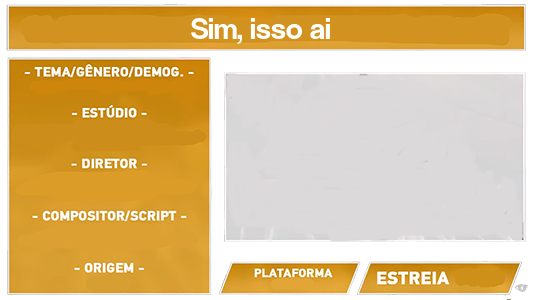
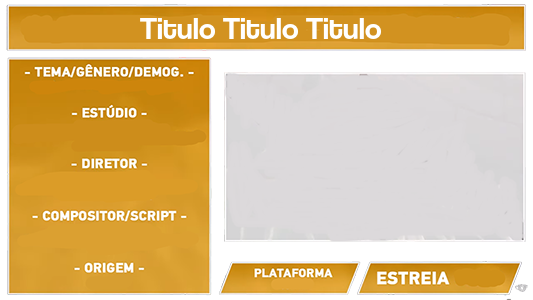
Desenvolvendo a preview

Changed region(s): [[0.2402, 0.06, 0.7205, 0.15]]

diff --git a/refactoring.py b/refactoring.py
@@ -4,6 +4,7 @@ from tkinter.tix import *
 from PIL import Image, ImageDraw, ImageFont
 import re, os
 
+#--------------------------------------------------------------------------
 class FileVerification():
     def __init__(self):
         self.extensionRegex = re.compile(r'[^.]+$')
@@ -62,7 +63,7 @@ class VisualWarning(Label, Balloon):
         self.__balloonWarning.bind_widget(self.__warning, balloonmsg=newMessage)
 
 class Title(Label):
-    def __init__(self, master, name, row, column, columnspan = 1, sticky = 'W'):
+    def __init__(self, master, name, row, column, padx=0, pady=0, bgColor='', fgColor='', columnspan = 1, sticky = 'W'):
         super().__init__()
         self.__master = master
         self.name = name
@@ -70,31 +71,42 @@ class Title(Label):
         self._column = column
         self._columnspan = columnspan
         self.sticky = sticky
+        self.bgColor = bgColor if bgColor else self.__master.cget("bg")
+        self.fgColor = fgColor if fgColor else "black"
 
-        self.label = Label(self.__master, text=self.name)
+        self.label = Label(self.__master, text=self.name, padx=padx, pady=pady, bg=self.bgColor, fg=self.fgColor)
         self.label.grid(row=self._row, column=self._column, columnspan=self._columnspan, sticky=EW)
         self.label.bind("<Configure>", self.setSize)
         #self.label.columnconfigure(self._column, weight=2)
     
     def setSize(self, event):
-        if event.width < 70:
-            font_size = int(event.width/7)
+        if event.width < 40:
+            font_size = int(event.width/4)
             #print("caso 1: ", font_size, event.width, self.label.cget("text"))
+        elif event.width >= 40 and event.width < 50:
+            font_size = int(event.width/5)
+            #print("caso 2: ", font_size, event.width, self.label.cget("text"))
+        elif event.width >= 50 and event.width < 60:
+            font_size = int(event.width/6)
+            #print("caso 3: ", font_size, event.width, self.label.cget("text"))
+        elif event.width >= 60 and event.width < 70:
+            font_size = int(event.width/7)
+            #print("caso 4: ", font_size, event.width, self.label.cget("text"))
         elif event.width >= 70 and event.width < 80:
             font_size = int(event.width/8)
-            #print("caso 2: ", font_size, event.width, self.label.cget("text"))
+            #print("caso 5: ", font_size, event.width, self.label.cget("text"))
         elif event.width >= 80 and event.width < 90:
             font_size = int(event.width/9)
-            #print("caso 3: ", font_size, event.width, self.label.cget("text"))
+            #print("caso 6: ", font_size, event.width, self.label.cget("text"))
         elif event.width >= 90 and event.width < 110:
             font_size = int(event.width/10)
-            #print("caso 4: ", font_size, event.width, self.label.cget("text"))
+            #print("caso 7: ", font_size, event.width, self.label.cget("text"))
         elif event.width >= 110 and event.width < 150:
             font_size = int(event.width/11)
-            #print("caso 5: ", font_size, event.width, self.label.cget("text"))
+            #print("caso 8: ", font_size, event.width, self.label.cget("text"))
         elif event.width >= 150:
             font_size = 14
-            #print("caso 6: ", font_size, event.width, self.label.cget("text"))
+            #print("caso 9: ", font_size, event.width, self.label.cget("text"))
         self.label.configure(font=("Arial", font_size))
 
 
@@ -122,6 +134,59 @@ class Input(Entry):
     def clearText(self):
         self.input.delete(0, END)
 
+class AreaFrame(Frame):
+    def __init__(self, master, frameTitle, campo, numFrames, nameFrames, row, column, bgColor="gray", padx=10, pady=10, bd=3):
+        super().__init__()
+        self.__master = master
+        self._row = row
+        self._column = column
+        self._nameFrames = nameFrames
+        self._frameTitle = frameTitle
+        self._campo = campo
+        
+        self.areaFrame = Frame(self.__master, bg=bgColor, padx=padx, pady=pady, bd=bd)
+        self.subFrames = []
+
+        for i in range(numFrames):
+            columnLabel = i + i
+            columnInput = (i + 1) + i
+            newFrame = {
+                "fieldName": self._nameFrames[i],
+                "labelTitle": Title(self.areaFrame, self._nameFrames[i], 1, columnLabel, pady=2, columnspan=2, sticky=EW, fgColor="white"),
+                "labelFont": Title(self.areaFrame, "font size:", 2, columnLabel, padx=2, bgColor="gray", fgColor="white"),
+                "labelCoordx": Title(self.areaFrame, "coordx:", 3, columnLabel, padx=2, bgColor="gray", fgColor="white"),
+                "labelCoordy": Title(self.areaFrame, "coordy:", 4, columnLabel, padx=2, bgColor="gray", fgColor="white"),
+                "inputCampo": self._campo,
+                "inputFont": Input(self.areaFrame, "10", 2, columnInput),
+                "inputCoordx": Input(self.areaFrame, "10", 3, columnInput),
+                "inputCoordy": Input(self.areaFrame, "10", 4, columnInput),
+            }
+            self.subFrames.append(newFrame)
+        
+        self.title = Title(self.areaFrame, self._frameTitle, 0, 0, pady=2, fgColor="white", columnspan=self.areaFrame.grid_size()[1] + 1, sticky=EW)
+        self.areaFrame.grid(row=self._row, column=self._column)
+
+    def getSubFrames(self):
+        return self.subFrames
+
+    def getFontSize(self, field):
+        #print(field)
+        for item in self.subFrames:
+            #print(item['fieldName'])
+            if item['fieldName'] == field:
+                print('Aqui', item['inputFont'].getValue())
+                return item["inputFont"].getValue()
+
+    def getValueX(self, field):
+        for item in self.subFrames:
+            if item["fieldName"] == field:
+                return int(item["inputCoordx"].getValue())
+    
+    def getValueY(self, field):
+        for item in self.subFrames:
+            if item["fieldName"] == field:
+                return int(item["inputCoordy"].getValue())
+
 class SearchButton(Button):
     def __init__(self, master, text, padx, pady, inputIndex, row, column,bgColor='lightgray', bgActive="gray"):
         super().__init__()
@@ -141,6 +206,8 @@ class SearchButton(Button):
 
         return filename
 
+#--------------------------------------------------------------------------
+
 class ActionButton(Button):
     def __init__(self, master, text, bgColor, fontColor, action, row, column, sticky=N, span=1, listInputs=[]):
         self.__master = master
@@ -157,6 +224,8 @@ class ActionButton(Button):
             self.actionButton.configure(command=lambda: self.verifyInputs())
         elif self._action == 'limpar':
             self.actionButton.configure(command=lambda: self.clearInputs())
+        elif self._action == 'preview':
+            self.actionButton.configure(command=lambda: self.setPreview())
 
     def verifyInputs(self):
         if self.listInputs:
@@ -224,6 +293,43 @@ class ActionButton(Button):
     def clearInputs(self):
         for item in self.listInputs:
             item['input'].clearText()
+    
+    def setPreview(self):
+        # Abrindo a imagem
+        for item in self.listInputs:
+            if item['fieldName'] == '1 linha':
+                preview_image = Image.open(os.path.join(os.getcwd(), r'src/images/preview.png'))
+                
+                # Pegando o texto pra adicionar
+                text_to_add = item['inputCampo'].getValue()
+
+                # Coordenadas adaptadas pra preview
+                preview_font_height = round((int(item['inputFont'].getValue()) / 1080) * 300)
+                preview_coordx = int(item['inputCoordx'].getValue()) / 1920 * 523
+                preview_coordy = int(item['inputCoordy'].getValue()) / 1080 * 300
+
+                # Definindo a fonte
+                text_font = ImageFont.truetype(os.path.join(os.getcwd(), r'src/fonts/coolvetica rg.otf'), preview_font_height)
+
+                # Editando a imagem
+                preview_image_edit = ImageDraw.Draw(preview_image)
+                preview_image_edit.text((preview_coordx, preview_coordy), text_to_add, anchor="mm", font=text_font)
+
+                # Salvando a imagem
+                preview_image.save(os.path.join(os.getcwd(), r'src/images/new_preview.png'))
+
+                # Limpe a entry box
+                item['inputCampo'].delete(0, END)
+                item['inputCampo'].insert(0, "Saving File...")
+
+                # Espere alguns segundos e mostre a imagem
+                image_preview.after(2000, self.show_pic(os.path.join(os.getcwd(), r'src/images/new_preview.png')))
+
+    def show_pic(self, pathNewPic):
+        global new_preview
+        new_preview = PhotoImage(file=pathNewPic)
+        image_preview.config(image=new_preview)
+        title_input.delete(0, END)
 
 #--------------------------------------------------------------------------
 # Início
@@ -310,8 +416,8 @@ title_label = Label(preview_texts, text="1. Título:", padx=5)
 title_label.grid(row=0, column=0)
 
 # Inputs
-title_input = Entry(preview_texts, width="40")
-title_input.grid(row=0, column=1, sticky=EW, pady=10)
+title_input = Input(preview_texts, "40", 0, 1)
+#title_input.grid(row=0, column=1, sticky=EW, pady=10)
 
 preview_texts.grid(row=2, column=0, sticky=EW)
 
@@ -321,31 +427,12 @@ adjust_canvas = Canvas(root, width=dj[0])
 adjust_frame = Frame(adjust_canvas)
 
 # Criando Labels
-title_label = Label(adjust_frame, text="Título")
-title_label.grid(row=0, column=0)
-
-# Frame dos inputs
-titles_frame = Frame(adjust_frame, bg="gray", padx=10, pady=10, bd=3)
+#title_label = Title(adjust_frame, "Título:", 0, 0)
+#title_label.grid(row=0, column=0)
 
 
-# Criando label das coordenadas
-font_height_label = Label(titles_frame, text="font size")
-font_height_label.grid(row=0, column=0)
-coordx_label = Label(titles_frame, text="coordx")
-coordx_label.grid(row=1, column=0)
-coordy_label = Label(titles_frame, text="coordy")
-coordy_label.grid(row=2, column=0)
-
-# Criando inputs dos titulos
-font_height_input = Entry(titles_frame)
-font_height_input.grid(row=0, column=1)
-coordx_input = Entry(titles_frame)
-coordx_input.grid(row=1, column=1)
-coordy_input = Entry(titles_frame)
-coordy_input.grid(row=2, column=1)
-
-# Fechando Frame dos Inputs
-titles_frame.grid(row=1, column=0)
+# Frames onde serão ajustadas as coordenadas e tamanho de fonte
+titles_frame = AreaFrame(adjust_frame, "Título:", title_input, 3, ("1 linha", "2 linhas", "3 linhas"), 0, 0) 
 
 # Barra de Scroll
 scrollbar = Scrollbar(root, orient='vertical')
@@ -368,43 +455,10 @@ adjust_canvas.grid(row=3, column=0, sticky=EW)
 
 #---------------------------------------------------------------------------
 # Acionar Preview
-def add_it():
-    # Abrindo a imagem
-    preview_image = Image.open(os.path.join(os.getcwd(), r'src/images/preview.png'))
-    
-    # Pegando o texto pra adicionar
-    text_to_add = title_input.get()
 
-    # Coordenadas adaptadas pra preview
-    preview_font_height = round((int(font_height_input.get()) / 1080) * 300)
-    preview_coordx = (int(coordx_input.get()) / 1920) * 523
-    preview_coordy = (int(coordy_input.get()) / 1080) * 300
-
-    # Definindo a fonte
-    text_font = ImageFont.truetype(os.path.join(os.getcwd(), r'src/fonts/coolvetica rg.otf'), preview_font_height)
-
-    # Editando a imagem
-    preview_image_edit = ImageDraw.Draw(preview_image)
-    preview_image_edit.text((preview_coordx, preview_coordy), text_to_add, anchor="mm", font=text_font)
-
-    # Salvando a imagem
-    preview_image.save(os.path.join(os.getcwd(), r'src/images/new_preview.png'))
-
-    # Limpe a entry box
-    title_input.delete(0, END)
-    title_input.insert(0, "Saving File...")
-
-    # Espere alguns segundos e mostre a imagem
-    image_preview.after(2000, show_pic(os.path.join(os.getcwd(), r'src/images/new_preview.png')))
-
-def show_pic(pathNewPic):
-    global new_preview
-    new_preview = PhotoImage(file=pathNewPic)
-    image_preview.config(image=new_preview)
-    title_input.delete(0, END)
-
-buttonDemo = Button(root, text="Demonstração", command=lambda: add_it())
-buttonDemo.grid(row=4, column=0, sticky=EW)
+buttonDemo = ActionButton(root, "Demonstração", bgColor="lightyellow", fontColor="black", action="preview", row=4, column=0, sticky=EW, listInputs=titles_frame.getSubFrames())
+""" buttonDemo = Button(root, text="Demonstração", command=lambda: add_it())
+buttonDemo.grid(row=4, column=0, sticky=EW) """
 
 
 
